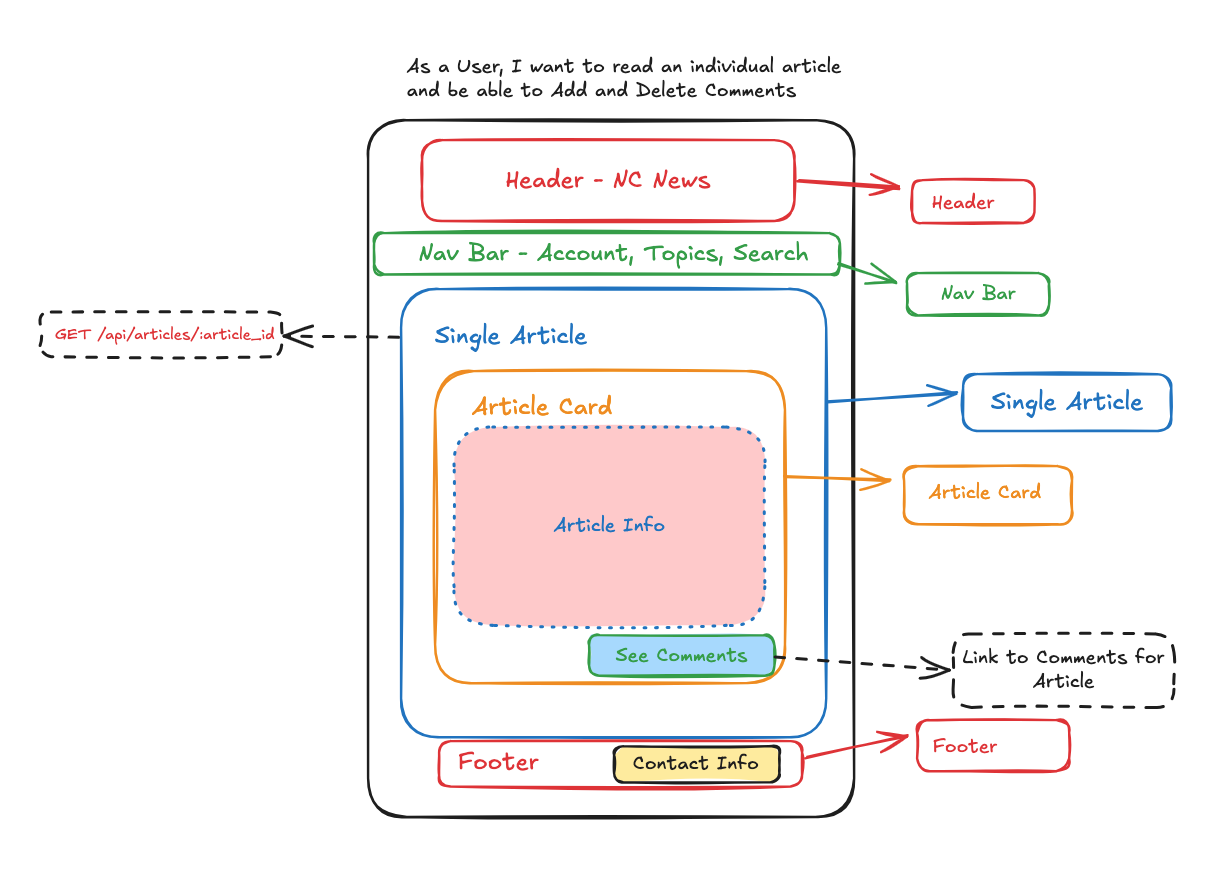
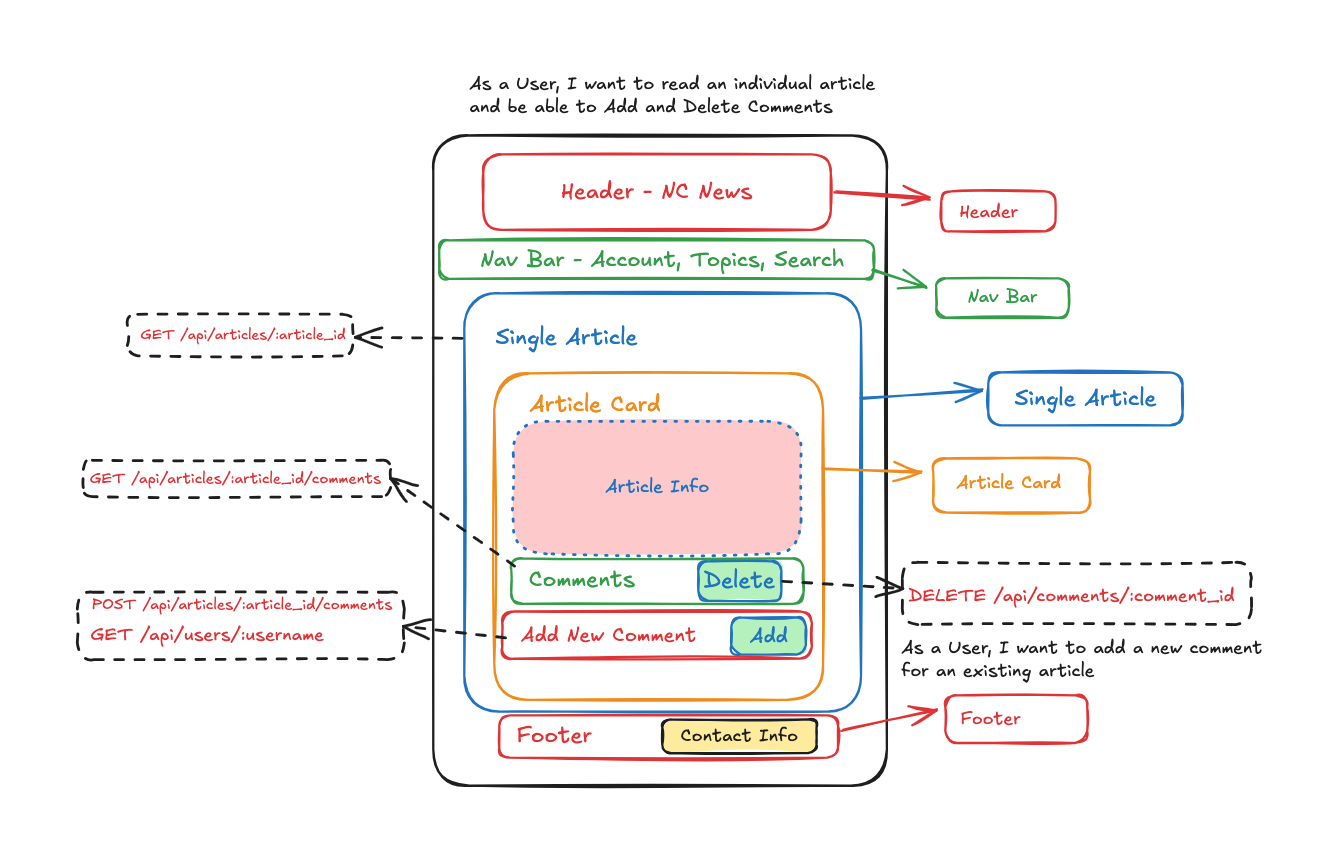
updated plans

Changed region(s): [[0.0309, 0.0609, 0.9593, 0.9438], [0.4332, 0.548, 0.557, 0.6089]]

diff --git a/src/App.jsx b/src/App.jsx
@@ -1,35 +1,16 @@
-import { useState } from 'react'
-import reactLogo from './assets/react.svg'
-import viteLogo from '/vite.svg'
-import './App.css'
+import "./App.css";
+import Header from "./components/Header";
+import Articles from "./components/Articles";
+import Nav from "./components/Nav";
 
 function App() {
-  const [count, setCount] = useState(0)
-
   return (
     <>
-      <div>
-        <a href="https://vite.dev" target="_blank">
-          <img src={viteLogo} className="logo" alt="Vite logo" />
-        </a>
-        <a href="https://react.dev" target="_blank">
-          <img src={reactLogo} className="logo react" alt="React logo" />
-        </a>
-      </div>
-      <h1>Vite + React</h1>
-      <div className="card">
-        <button onClick={() => setCount((count) => count + 1)}>
-          count is {count}
-        </button>
-        <p>
-          Edit <code>src/App.jsx</code> and save to test HMR
-        </p>
-      </div>
-      <p className="read-the-docs">
-        Click on the Vite and React logos to learn more
-      </p>
+      <Header />;
+      <Nav />
+      <Articles />
     </>
-  )
+  );
 }
 
-export default App
+export default App;

diff --git a/src/components/Nav.jsx b/src/components/Nav.jsx
@@ -1,0 +1,14 @@
+function Nav() {
+  return (
+    <nav className="nav-bar">
+      <ul>
+        <li>Home</li>
+        <li>Topics</li>
+        <li>Account</li>
+        <li>Search</li>
+      </ul>
+    </nav>
+  );
+}
+
+export default Nav;

diff --git a/src/components/Header.jsx b/src/components/Header.jsx
@@ -1,0 +1,10 @@
+function Header() {
+  return (
+    <div>
+      <h1>NC News</h1>
+      <p>Catch up with the latest news here</p>
+    </div>
+  );
+}
+
+export default Header;

diff --git a/src/components/Articles.jsx b/src/components/Articles.jsx
@@ -1,0 +1,3 @@
+function Articles() {}
+
+export default Articles;
